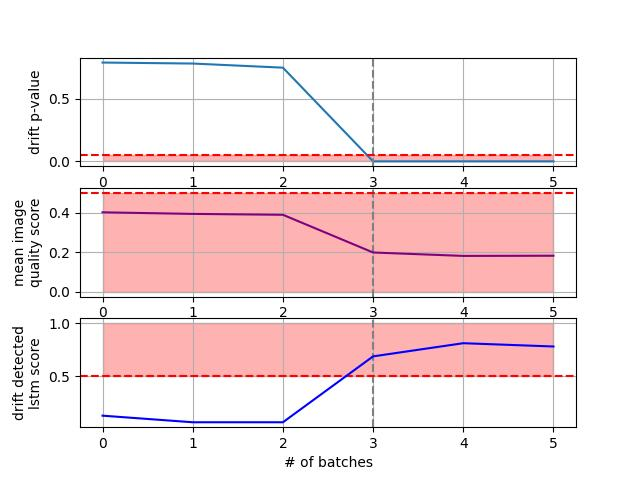
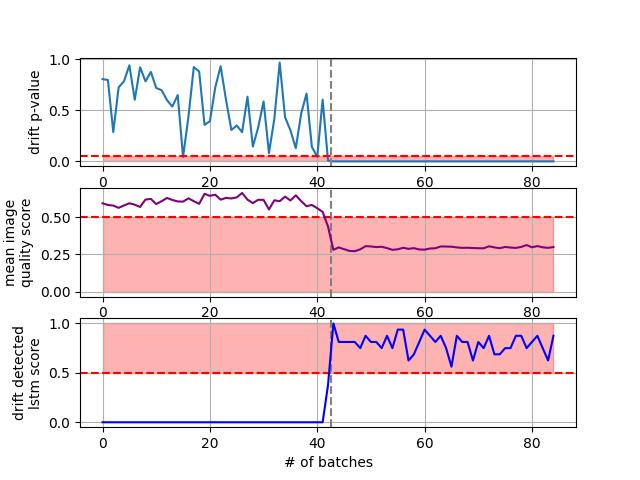
random crop helps with stream drift detection

diff --git a/main.py b/main.py
@@ -87,10 +87,10 @@ def init_dataloaders(dataset="kadid10k", batch_size=32):
 
         # Split dataset
         train_paths, test_paths = train_test_split(
-            image_paths, test_size=0.5, random_state=42, shuffle=True)
+            image_paths, test_size=0.25, random_state=42, shuffle=False)
 
         _, dd_paths = train_test_split(
-            train_paths, test_size=0.8, random_state=42, shuffle=True)
+            train_paths, test_size=0.5, random_state=42, shuffle=True)
     
 
         train_dataset = VideoFootage(train_paths, distort="rand")
@@ -231,11 +231,13 @@ def compute_quality_score(model, img):
 
 if __name__ == "__main__":
     
+    dataset="traffic_inspection"
+    # dataset="pipe_inspection"
     # dataset="factory_inspection"
     # dataset="assembly_line_extreme_inspection"
-    dataset="assembly_line_inspection"
+    # dataset="assembly_line_inspection"
     # dataset="kadid10k"
-    global_batch_size = 32
+    global_batch_size = 16
     train, test, ddet = init_dataloaders(
         dataset=dataset, batch_size=global_batch_size)
 
@@ -245,7 +247,7 @@ if __name__ == "__main__":
         ddetector_dts=ddet,
         train_dts=train,
         feat_ext_slice=0, 
-        num_epochs=50,
+        num_epochs=10,
         emb_dim=3
     )
      
@@ -283,15 +285,15 @@ if __name__ == "__main__":
             dd_in = dd_in.reshape(bimages.shape[0], -1)
             pv = ddetect.forward(dd_in).item()
             if pv>0:
-                print("drift detected:",pv)
-                input()
-
+                print("NO drift detected:",pv)
+                # input()
+ 
             meaniq = arniqa_outputs.mean().item()
             lstm_labels = torch.where(labels>1, 1, 0)
             lstm_labels = torch.nn.functional.one_hot(lstm_labels.long(), 2)
             lstm_mean = torch.argmax(lstm_outputs, dim=1).float().mean()
 
-            print(dd_in, arniqa_outputs, dd_in.argmax(dim=1), labels)
+            # print(dd_in, arniqa_outputs, dd_in.argmax(dim=1), labels)
 
             all_drift_p_values.append(pv)
             mean_iqscore_values.append(meaniq)

diff --git a/dataloaders.py b/dataloaders.py
@@ -51,7 +51,7 @@ class VideoFootage(Dataset):
         image = Image.open(self.image_paths[idx])
 
         preproc = T.Compose([
-            T.CenterCrop(size=min(image.size)),
+            T.RandomCrop(size=min(image.size)),
             T.ToImage(), T.ToDtype(torch.float32, scale=True),
             T.Normalize(mean=[0.485, 0.456, 0.406], std=[0.229, 0.224, 0.225]),
             
@@ -74,6 +74,7 @@ class VideoFootage(Dataset):
         else:
             label = torch.tensor(1)
 
+        # image = T.RandomRotation([-10,10])(image)
         return image, label
 
 class kadid10k(Dataset):
